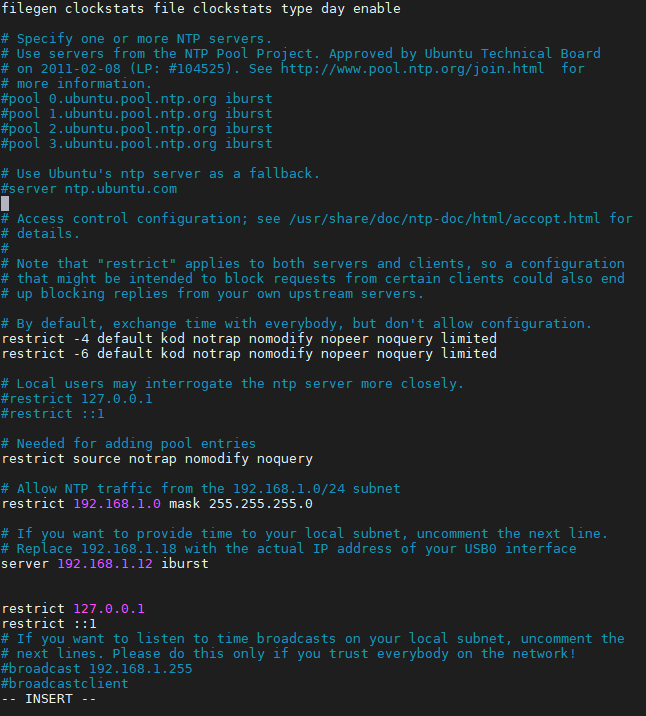
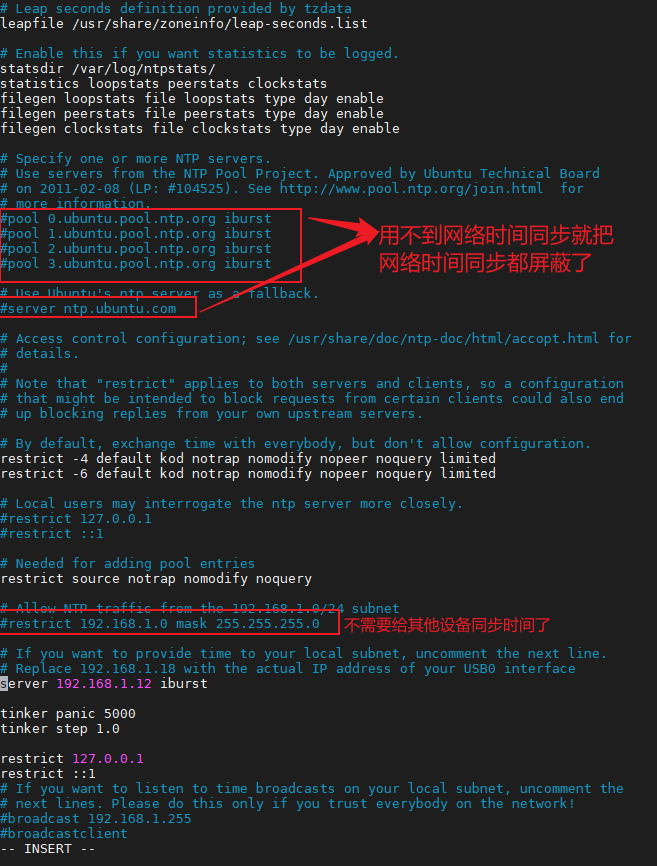
update ntp

Changed region(s): [[0.0, 0.0, 0.9598, 1.0]]

diff --git a/source/基本功能介绍及使用/NTP时间同步.md b/source/基本功能介绍及使用/NTP时间同步.md
@@ -75,7 +75,7 @@ pool time.pool.aliyun.com iburst
 pool time1.cloud.tencent.com iburst
 ```
 
-或者使用内部的NTP服务地址：
+或者使用内部的NTP服务地址,这里就不加了，使用网络时间源来给`192.168.1.10`进行时间同步：
 
 ```
 server 192.168.100.100 iburst #假设你的ntp服务地址是192.168.100.100
@@ -104,7 +104,9 @@ server 127.127.1.0
 ```
 sudo systemctl restart ntp
 sudo systemctl enable ntp
+sudo systemctl status ntp
 ```
+![alt text](image/image-250826-ntpstatus.png)
 
 验证服务器状态：
 
@@ -128,7 +130,7 @@ sntp --version    #验证安装是否成功
 编辑 NTP 配置文件
 
 ```
-sudo vim/etc/ntp.conf
+sudo vim /etc/ntp.conf
 ```
 
 因为这里是完全作为无网的设备使用，核心要修改的地方就是pool以及server，注释掉所有默认的 pool或 server行，再加上自己的sever,这里的`192.168.1.12`就是前面服务器usb网卡的地址，client的ip是`192.168.1.10`；
@@ -136,7 +138,13 @@ sudo vim/etc/ntp.conf
 ```
 server 192.168.1.12 iburst
 ```
-
+然后视情况要不要添加以下的配置,因为ntp在进行时间同步时如果服务器和客户端的时间差太大的话也是无法同步的。
+```shell
+# 允许NTP校正任何大小的时间差
+tinker panic 0
+# 将步进调整的阈值设为3秒。对于超过3秒的偏差，先步进调整到相差3秒以内，然后平滑调整。
+tinker step 3.0
+```
 
 
 ![](./image/2025-08-25-19-38-27-image.png)
@@ -147,7 +155,7 @@ server 192.168.1.12 iburst
 sudo systemctl restart ntp
 ```
 
-验证同步,可以看到client已经使用我们自己的ntp服务器进行时间同步了，可以用date命令来大致的看两边的时间是否是同步的：
+验证同步,可以看到client已经使用我们自己的ntp服务器进行时间同步了，可以用date命令来大致的看两边的时间是否是同步的，如果一直无法使用上配置的ntp服务器的话（就是ntpq -p的结果上服务器前没有\*号，有\*号就代表用上ntp服务器了）可以手动设置一个一天内的时间或者服务器端重启ntp服务:`sudo systemctl restart ntp`
 
 ```
 ntpq -p
